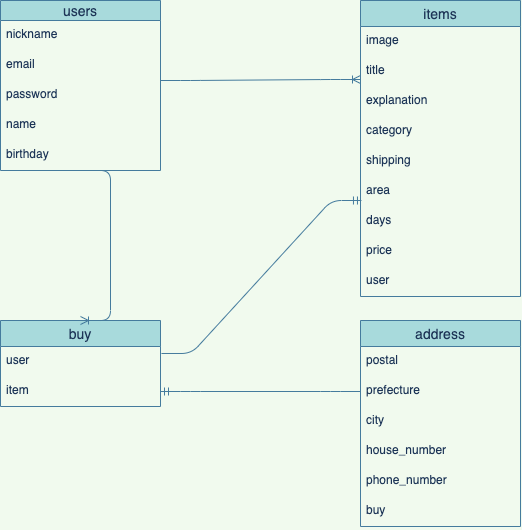
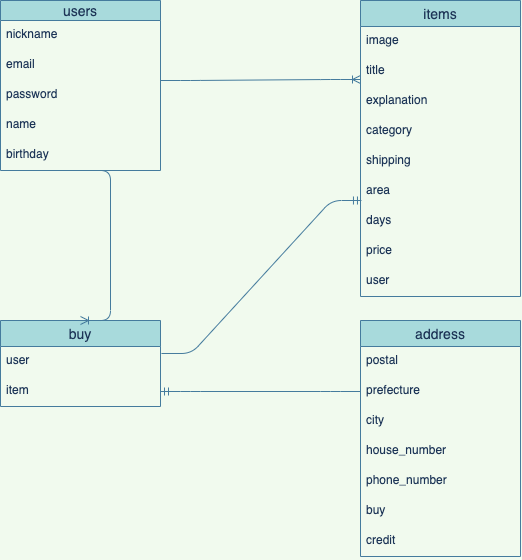
READMEの修正

diff --git a/README.md b/README.md
@@ -1,12 +1,15 @@
 ## users table
 
-|Column  |Type  |Options    |
-|--------|------|-----------|
-|nickname|string|null: false|
-|email   |string|null: false, unique: true|
-|password|string|null: false|
-|name    |string|null: false|
-|birthday|string|null: false|
+|Column    |Type  |Options    |
+|----------|------|-----------|
+|nickname  |string|null: false|
+|email     |string|null: false, unique: true|
+|password  |string|null: false|
+|first_name|string|null: false|
+|last_name |string|null: false|
+|first_kana|string|null: false|
+|last_kana |string|null: false|
+|birthday  |date  |null: false|
 
 
 ### Association
@@ -21,12 +24,12 @@
 |image      |          |null: false|
 |title      |text      |null: false|
 |explanation|text      |null: false|
-|category   |          |null: false|
-|condition  |          |null: false|
-|shipping   |          |null: false|
-|area       |          |null: false|
-|days       |          |null: false|
-|price      |          |null: false|
+|category   |date      |null: false|
+|condition  |date      |null: false|
+|shipping   |date      |null: false|
+|area       |date      |null: false|
+|days       |date      |null: false|
+|price      |text      |null: false|
 |user       |references|foreign_key: true|
 
 ### Association
@@ -51,6 +54,7 @@
 
 |Column      |Type  |Options    |
 |------------|------|-----------|
+|credit      |string|null: false|
 |postal      |string|null: false|
 |prefecture  |string|null: false|
 |city        |string|null: false|
